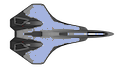
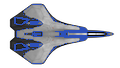
add red warShip

diff --git a/src/constants/ships.js b/src/constants/ships.js
@@ -5,7 +5,7 @@ import hunterShipAbsorb from '../images/hunterShipAbsorb.png';
 import destroyerShip from '../images/destroyerShip.png';
 import blueDestroyerShip from '../images/blueDestroyerShip.png';
 import destroyerShipAbsorb from '../images/destroyerShipAbsorb.png';
-import warShip from '../images/warShip.png';
+import redWarShip from '../images/redWarShip.png';
 import blueWarShip from '../images/blueWarShip.png';
 import warShipAbsorb from '../images/warShipAbsorb.png';
 import cruiserShip from '../images/cruiserShip.png';
@@ -14,7 +14,8 @@ import cruiserShipAbsorb from '../images/cruiserShipAbsorb.png';
 import carrierShip from '../images/carrierShip.png';
 import blueCarrierShip from '../images/blueCarrierShip.png';
 import carrierShipAbsorb from '../images/carrierShipAbsorb.png';
-import stealthShip from '../images/stealthShip.png';
+import redStealthShip from '../images/redStealthShip.png';
+import blueStealthShip from '../images/blueStealthShip.png';
 import stealthShipAbsorb from '../images/stealthShipAbsorb.png';
 import supplyShip from '../images/supplyShip.png';
 
@@ -51,7 +52,7 @@ export const SHIPS = [
     hitpoints: 700,
     speed: 4,
     shipCenter: {x: 60.5, y: 27},
-    image: warShip,
+    image: redWarShip,
     blueImage: blueWarShip,
     absorbImage: warShipAbsorb
   },
@@ -87,8 +88,8 @@ export const SHIPS = [
     hitpoints: 900,
     speed: 4.5,
     shipCenter: {x: 60, y: 34},
-    image: stealthShip,
-    blueImage: stealthShip,
+    image: redStealthShip,
+    blueImage: blueStealthShip,
     absorbImage: stealthShipAbsorb
   }
 ];
